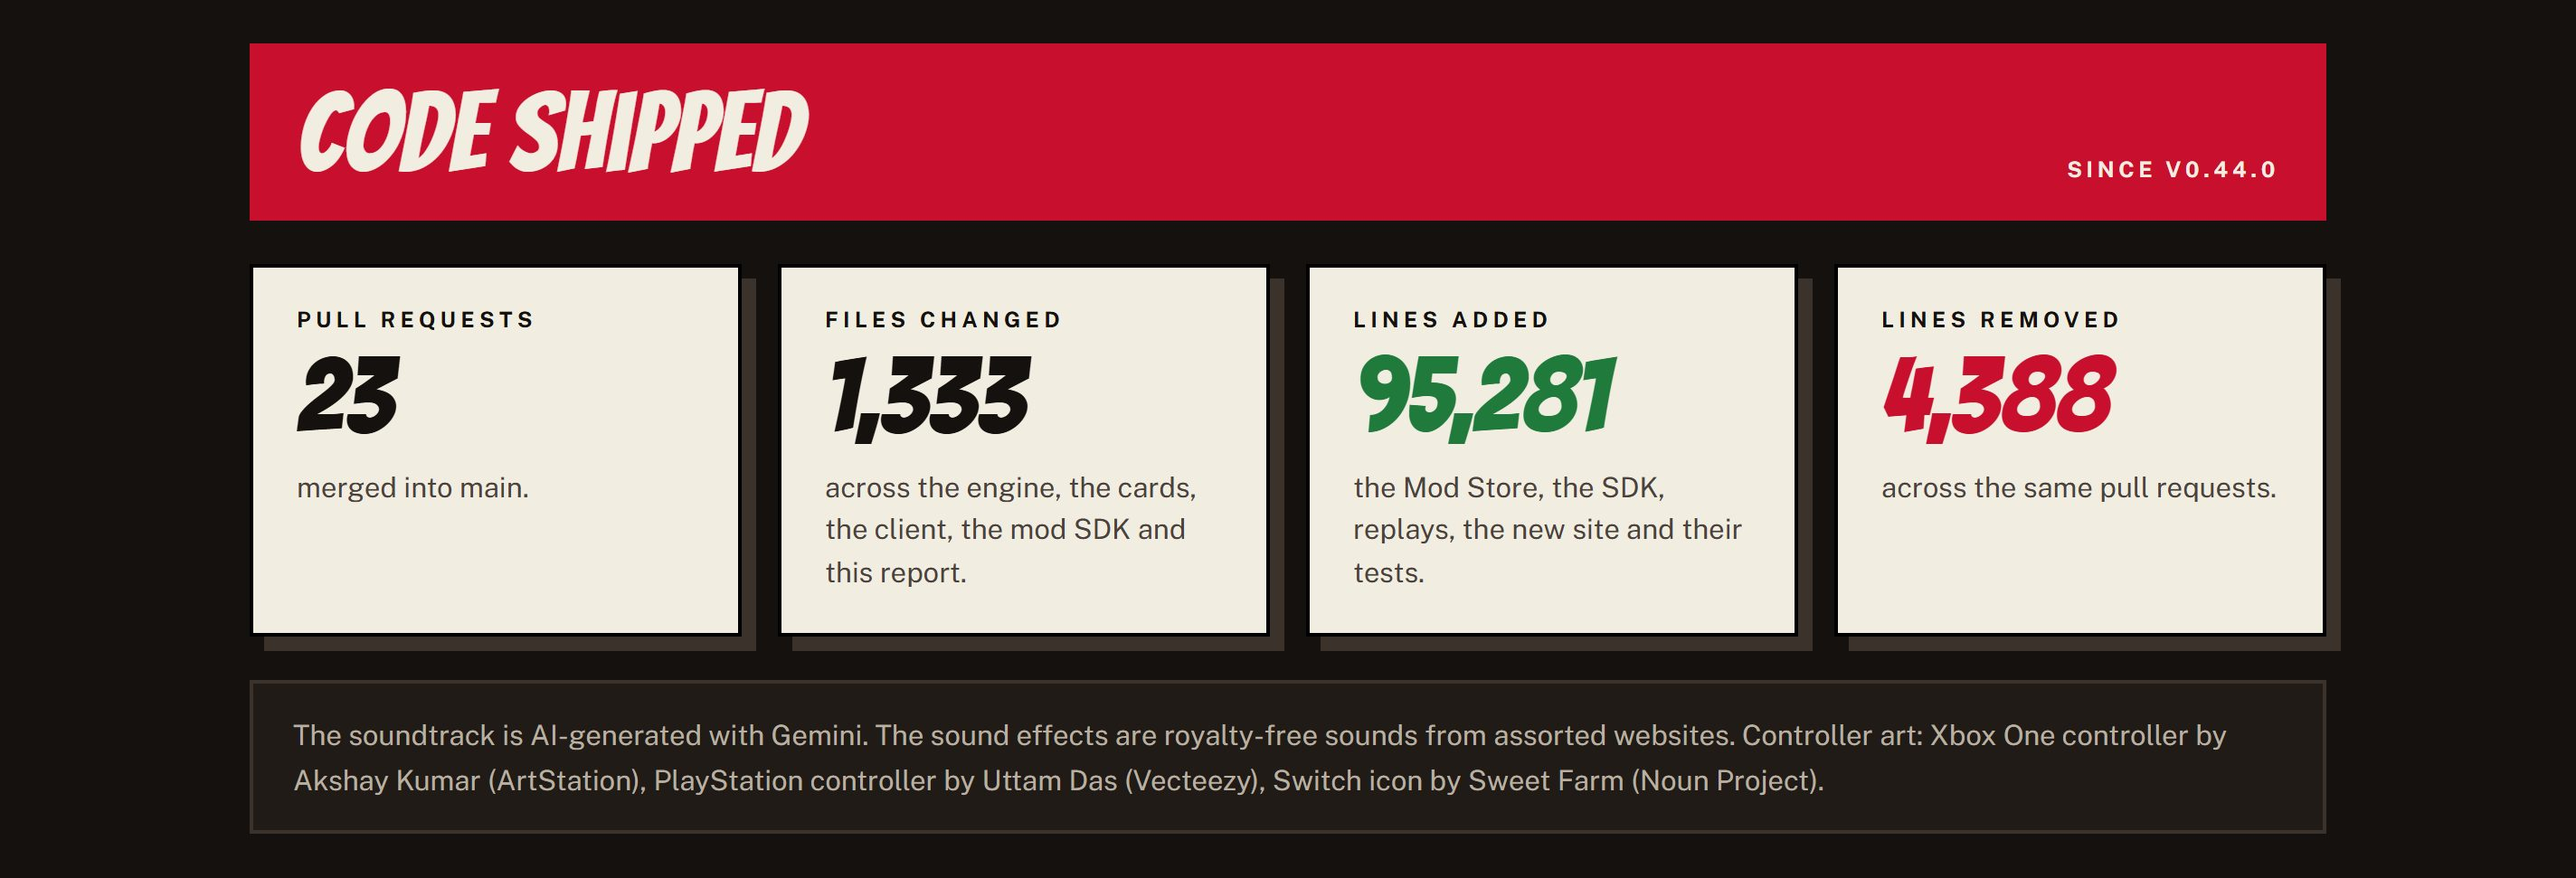
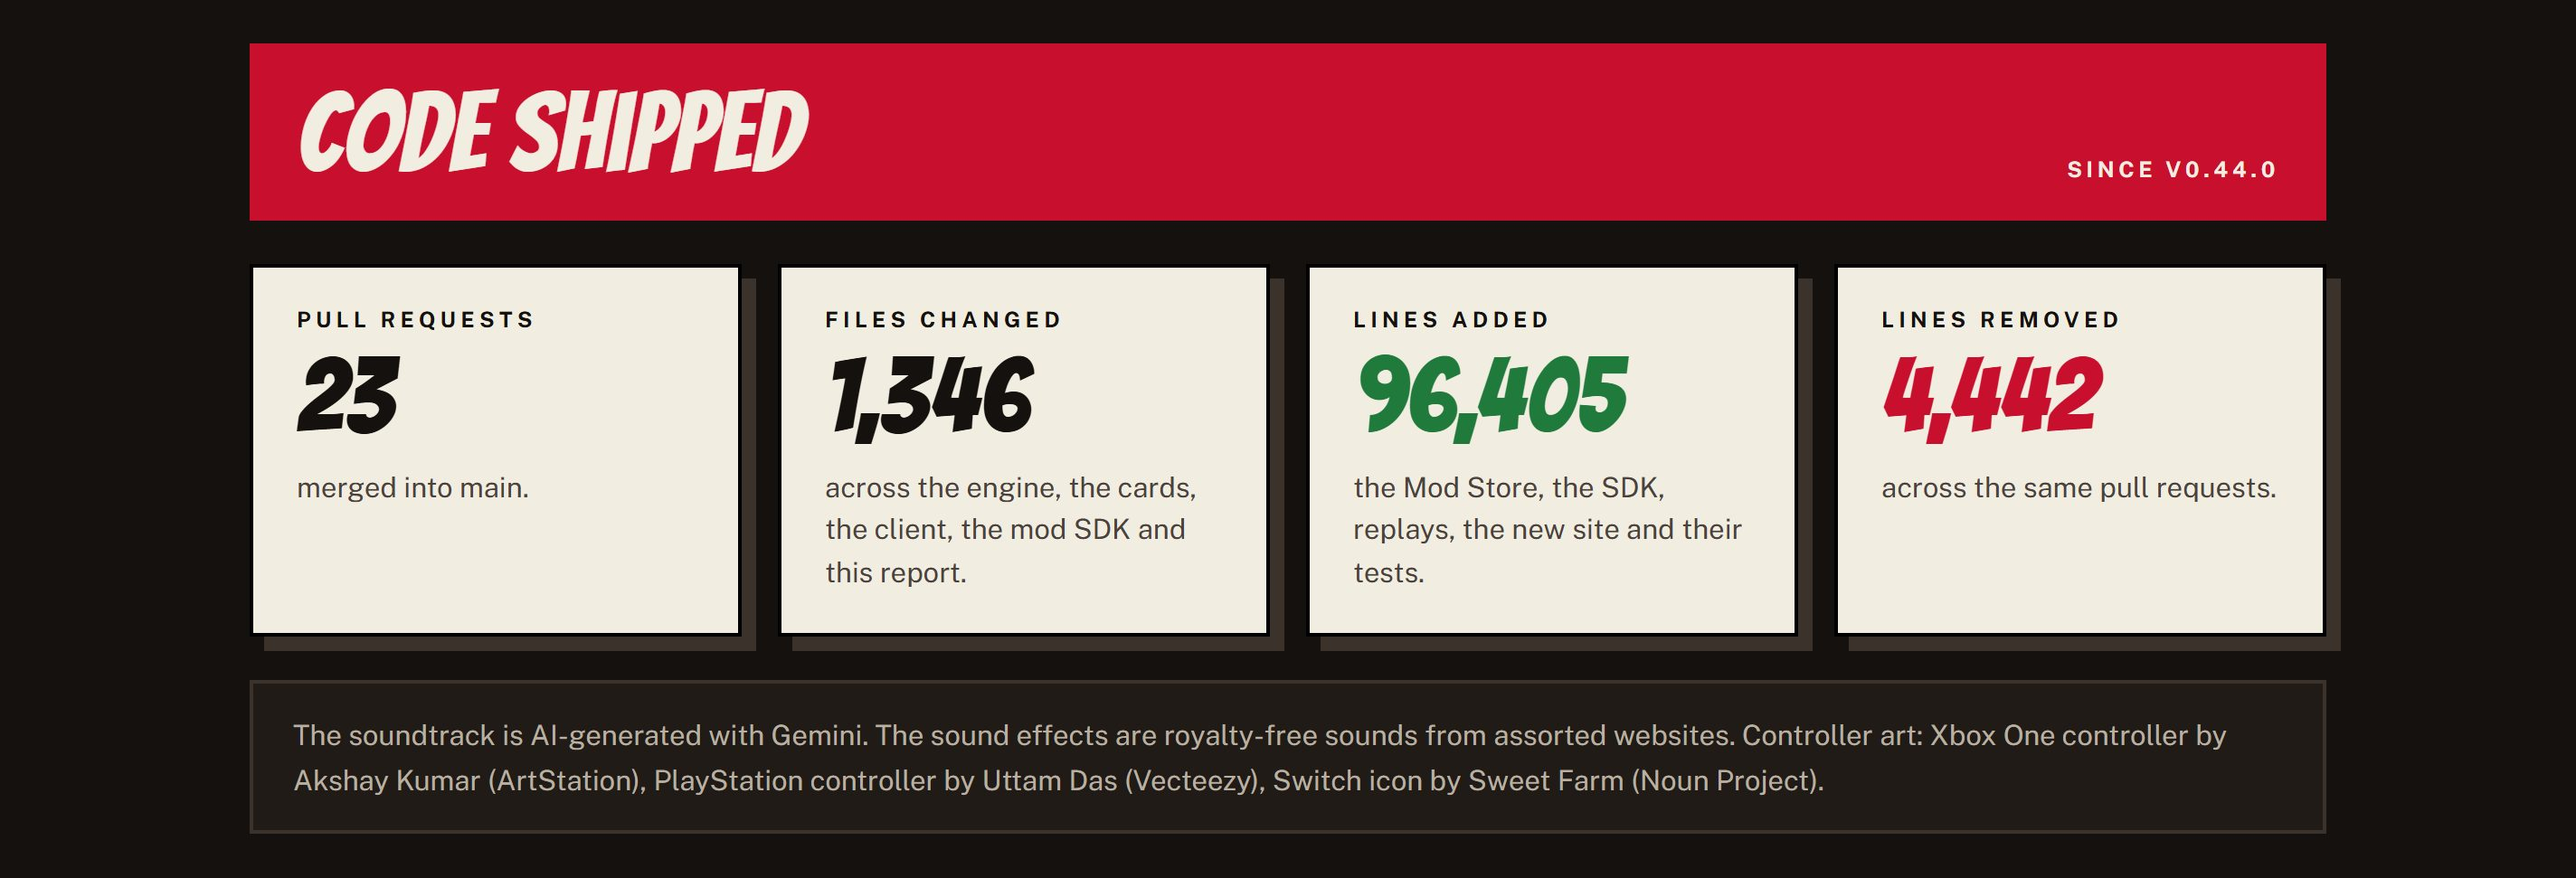
v0.45.0 announcement: Code shipped recounted after #713's #722 work

Changed region(s): [[0.5312, 0.4016, 0.6562, 0.4943], [0.75, 0.4016, 0.8438, 0.4943], [0.3438, 0.4016, 0.4062, 0.4943]]

diff --git a/packages/client/public/releases/v0.45.0/index.html b/packages/client/public/releases/v0.45.0/index.html
@@ -1077,17 +1077,17 @@
         </div>
         <div class="tile">
           <h4>Files changed</h4>
-          <div class="n">1,333</div>
+          <div class="n">1,346</div>
           <p>across the engine, the cards, the client, the mod SDK and this report.</p>
         </div>
         <div class="tile">
           <h4>Lines added</h4>
-          <div class="n c-green">95,281</div>
+          <div class="n c-green">96,405</div>
           <p>the Mod Store, the SDK, replays, the new site and their tests.</p>
         </div>
         <div class="tile">
           <h4>Lines removed</h4>
-          <div class="n c-red">4,388</div>
+          <div class="n c-red">4,442</div>
           <p>across the same pull requests.</p>
         </div>
       </section>
